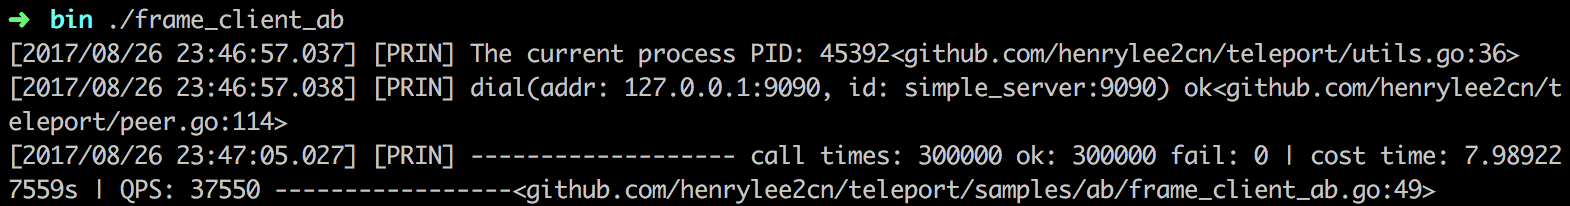
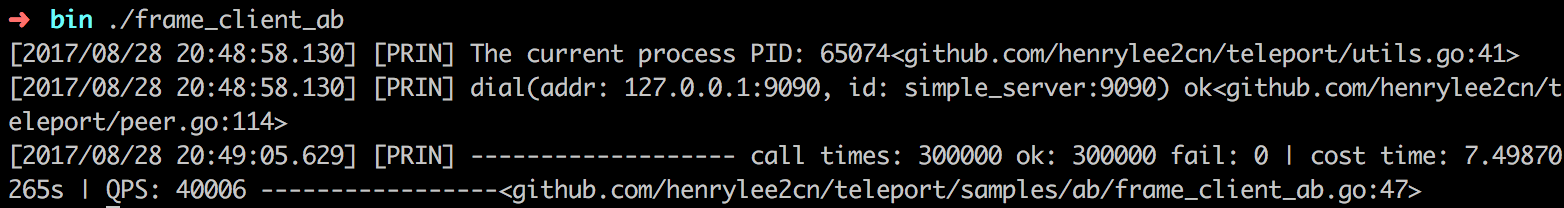
update README and ab test

diff --git a/samples/ab/frame_client_ab.go b/samples/ab/frame_client_ab.go
@@ -19,8 +19,6 @@ func main() {
 	go tp.GraceSignal()
 	tp.SetShutdown(time.Second*20, nil, nil)
 	var cfg = &tp.PeerConfig{
-		DefaultReadTimeout:   time.Minute * 1,
-		DefaultWriteTimeout:  time.Minute * 1,
 		TlsCertFile:          "",
 		TlsKeyFile:           "",
 		SlowCometDuration:    time.Millisecond * 500,

diff --git a/samples/ab/server.go b/samples/ab/server.go
@@ -17,8 +17,6 @@ func main() {
 	go tp.GraceSignal()
 	tp.SetShutdown(time.Second*20, nil, nil)
 	var cfg = &tp.PeerConfig{
-		DefaultReadTimeout:   time.Minute * 1,
-		DefaultWriteTimeout:  time.Minute * 1,
 		TlsCertFile:          "",
 		TlsKeyFile:           "",
 		SlowCometDuration:    time.Millisecond * 500,

diff --git a/README.md b/README.md
@@ -10,7 +10,7 @@ It can be used for peer-peer, rpc, gateway, micro services, push services, game 
 ![teleport_server](https://github.com/henrylee2cn/teleport/raw/master/doc/teleport_server.png)
 <br>
 
-*AB Testing 1: [Mac 4CPU 8GB] [single-process single-conn] teleport: QPS 37550*
+*AB Testing 1: [Mac 4CPU 8GB] [single-process single-conn] teleport: QPS 40006*
 ![teleport_frame_client_ab_test](https://github.com/henrylee2cn/teleport/raw/master/doc/frame_client_ab.png)
 <br>
 

diff --git a/README_ZH.md b/README_ZH.md
@@ -12,7 +12,7 @@ Teleport是一个通用、高效、灵活的TCP Socket框架。
 ![teleport_server](https://github.com/henrylee2cn/teleport/raw/master/doc/teleport_server.png)
 <br>
 
-*AB Testing 1: [Mac 4CPU 8GB] [single-process single-conn] teleport: QPS 37550*
+*AB Testing 1: [Mac 4CPU 8GB] [single-process single-conn] teleport: QPS 39414*
 ![teleport_frame_client_ab_test](https://github.com/henrylee2cn/teleport/raw/master/doc/frame_client_ab.png)
 <br>
 
